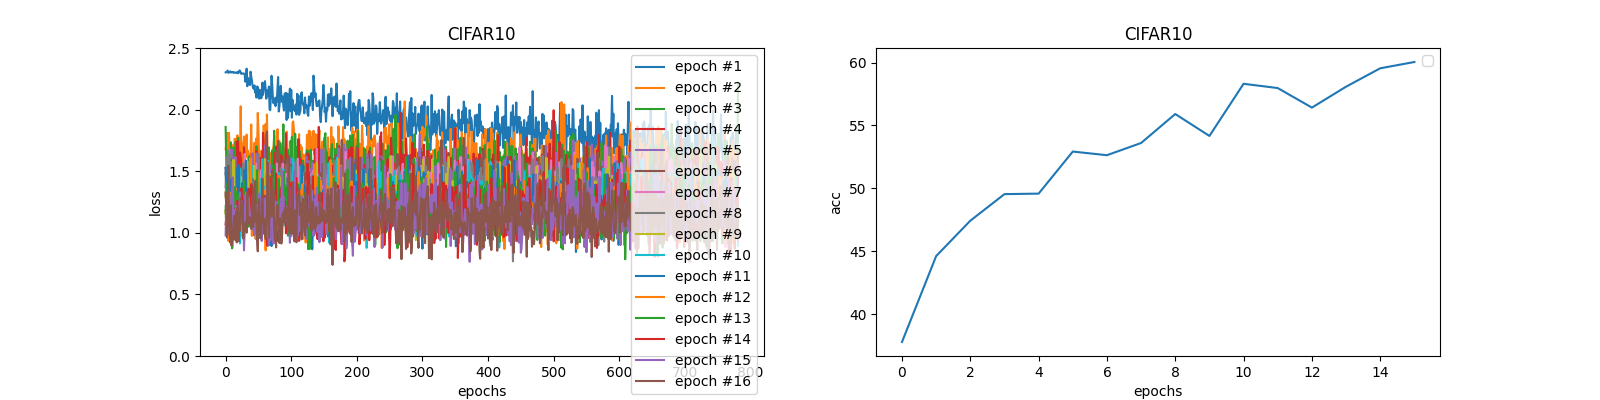
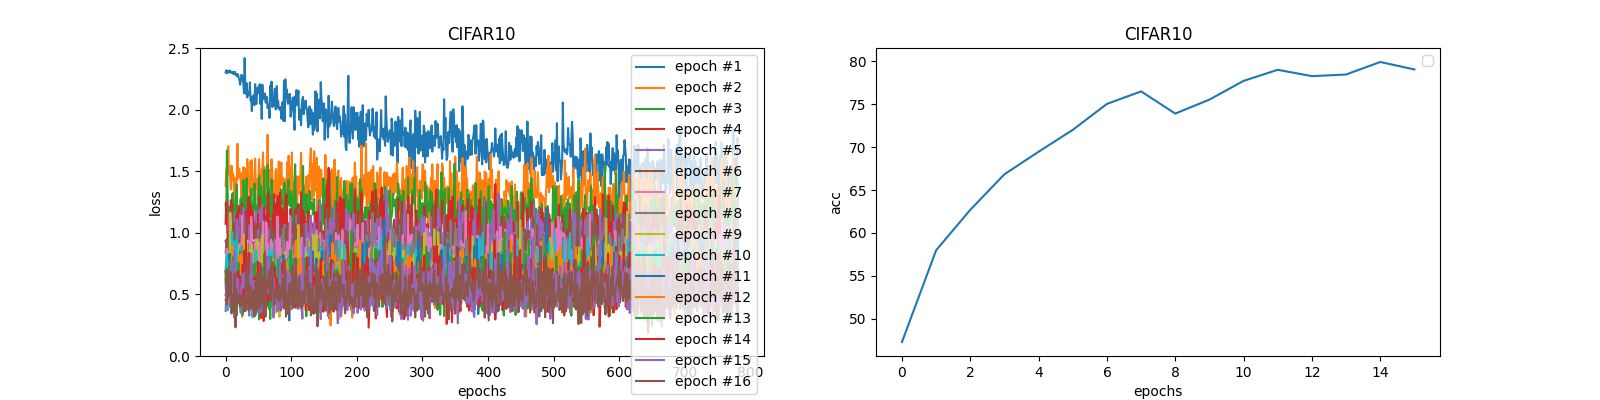
Update AlexNet

diff --git a/models/alexnet.py b/models/alexnet.py
@@ -1,7 +1,8 @@
-'''AlexNet for CIFAR10. FC layers are removed. Paddings are adjusted.
-Without BN, the start learning rate should be 0.01
-(c) YANG, Wei 
-'''
+"""Alexnet for cifar dataset.
+Ported form
+https://github.com/bearpaw/pytorch-classification/blob/master/models/cifar/alexnet.py
+"""
+
 import torch.nn as nn
 
 
@@ -31,25 +32,31 @@ class AlexNet(nn.Module):
         super(AlexNet, self).__init__()
         in_dim = 1 if grayscale else 3
         self.features = nn.Sequential(
-            nn.Conv2d(in_dim, 64, kernel_size=11, stride=4, padding=5),
+            nn.Conv2d(in_dim, 64, kernel_size=3, stride=1, padding=1),
+            nn.ReLU(inplace=True),
+            nn.MaxPool2d(kernel_size=3, stride=2),
+            nn.Conv2d(64, 128, kernel_size=3, padding=2),
             nn.ReLU(inplace=True),
             nn.MaxPool2d(kernel_size=2, stride=2),
-            nn.Conv2d(64, 192, kernel_size=5, padding=2),
+            nn.Conv2d(128, 256, kernel_size=3, padding=1),
             nn.ReLU(inplace=True),
-            nn.MaxPool2d(kernel_size=2, stride=2),
-            nn.Conv2d(192, 384, kernel_size=3, padding=1),
-            nn.ReLU(inplace=True),
-            nn.Conv2d(384, 256, kernel_size=3, padding=1),
+            nn.Conv2d(256, 256, kernel_size=3, padding=1),
             nn.ReLU(inplace=True),
             nn.Conv2d(256, 256, kernel_size=3, padding=1),
             nn.ReLU(inplace=True),
             nn.MaxPool2d(kernel_size=2, stride=2),
         )
-        self.classifier = nn.Linear(256, num_classes)
+        self.classifier = nn.Sequential(
+            nn.Linear(256 * 4 * 4, 256),
+            nn.ReLU(inplace=True),
+            nn.Linear(256, 256),
+            nn.ReLU(inplace=True),
+            nn.Linear(256, num_classes),
+        )
 
     def forward(self, x):
         x = self.features(x)
-        x = x.view(x.size(0), -1)
+        x = x.view(x.size(0), 256 * 4 * 4)
         x = self.classifier(x)
         return x
 
